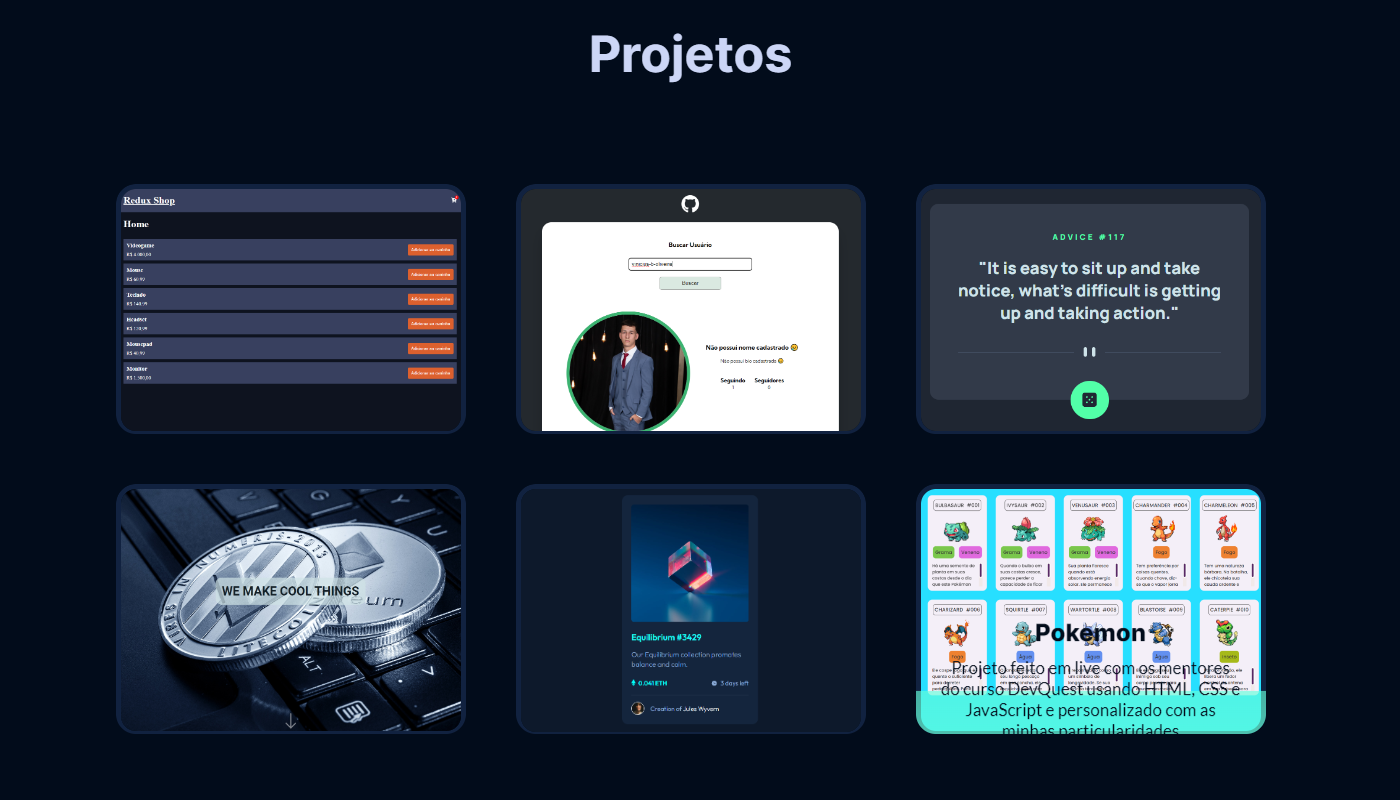
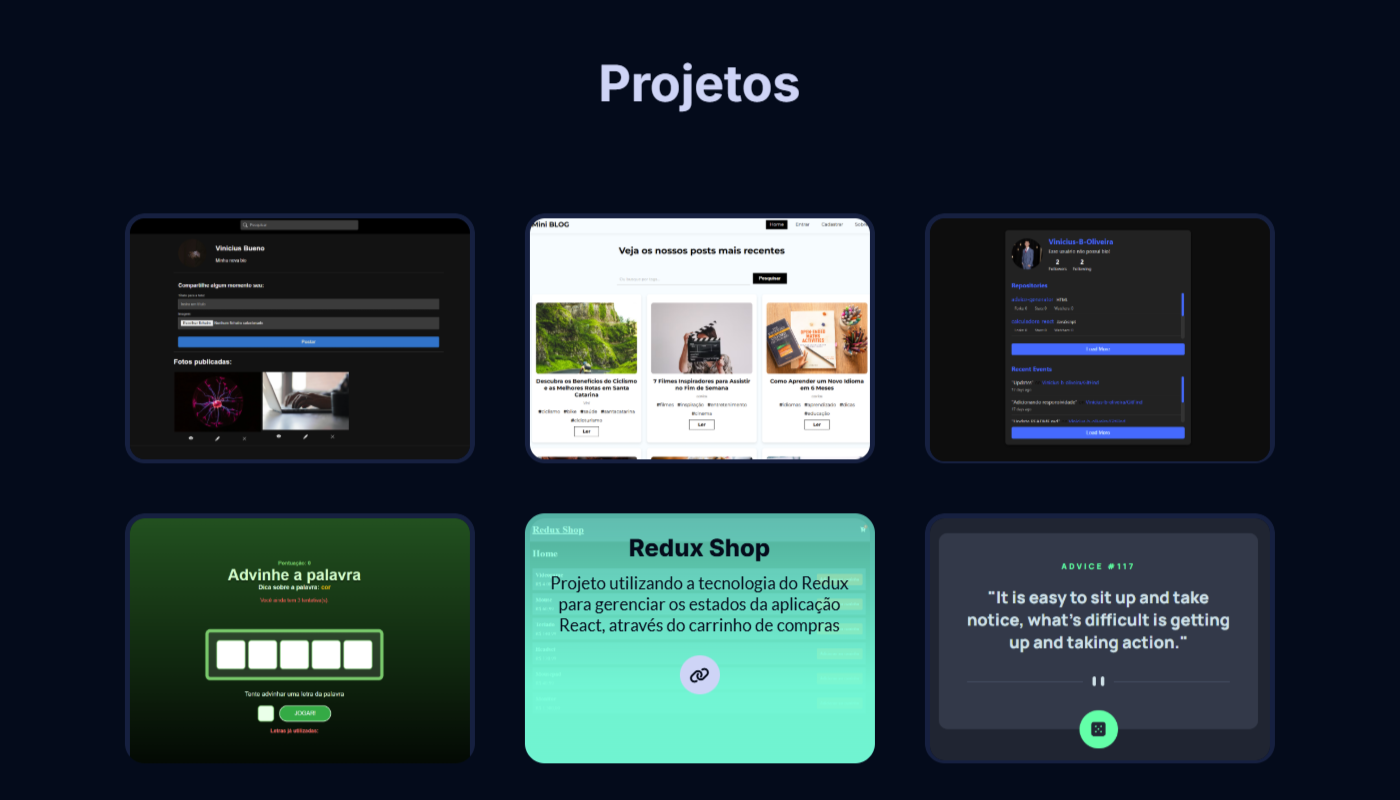
Atualização dos projetos

diff --git a/index.html b/index.html
@@ -199,6 +199,18 @@
             
             <ul class="container-projetos flex">
                 <li class="projeto">
+                    <img src="./src/img/projetos/reactgram.png" alt="Imagem do Projeto" class="projeto-img">
+        
+                    <div class="fundo-hover"></div>
+        
+                    <div class="informacoes-projeto flex">
+                        <h3 class="titulo-projeto">ReactGram</h3>
+                        <p class="descricao-projeto">É um projeto FullStack com foco em práticas modernas de desenvolvimento web que permite que usuários publiquem fotos, editem seus perfis, interajam com postagens e naveguem por conteúdos de outros usuários.</p>
+                        <a href="https://react-gram-rouge.vercel.app" class="btn-projeto" target="_blank"><i class="fa-solid fa-link"></i></a>
+                    </div>
+                </li> 
+
+                <li class="projeto">
                     <img src="./src/img/projetos/mini_blog.png" alt="Imagem do Projeto" class="projeto-img">
         
                     <div class="fundo-hover"></div>
@@ -255,19 +267,6 @@
                         <h3 class="titulo-projeto">Advice Generator</h3>
                         <p class="descricao-projeto">Solução de um desafio do frontend mentor utilizando uma Api geradora de conselhos</p>
                         <a href="https://vinicius-b-oliveira.github.io/advice-generator/" class="btn-projeto" target="_blank"><i class="fa-solid fa-link"></i></a>
-                    </div>
-                </li>
-
-
-                <li class="projeto">
-                    <img src="./src/img/projetos/pokemon.png" alt="Imagem do Projeto" class="projeto-img">
-
-                    <div class="fundo-hover"></div>
-
-                    <div class="informacoes-projeto flex">
-                        <h3 class="titulo-projeto">Pokemon</h3>
-                        <p class="descricao-projeto">Projeto feito em live com os mentores do curso DevQuest usando HTML, CSS e JavaScript e personalizado com as minhas particularidades</p>
-                        <a href="https://vinicius-b-oliveira.github.io/projeto-pokemon/" class="btn-projeto" target="_blank"><i class="fa-solid fa-link"></i></a>
                     </div>
                 </li>
             </ul>

diff --git a/README.md b/README.md
@@ -8,6 +8,10 @@
 
 Este portfólio foi criado para apresentar meus projetos pessoais e destacar minhas habilidades em desenvolvimento web. Utilizei somente HTML e CSS para construir este projeto, com o objetivo de demonstrar minha proficiência nessas tecnologias fundamentais.
 
+## 🌐 GitHub Pages (Deploy)
+
+O projeto está hospedado no GitHub Pages. Você pode acessá-lo [aqui](https://vinicius-b-oliveira.github.io/portfolio/).
+
 ## 🚧 Desafios Enfrentados 🚧
 
 🔥 Desenvolver um portfólio pessoal foi uma oportunidade incrível para aplicar minhas habilidades em programação. Enfrentei o desafio de criar uma interface atraente e responsiva, garantindo que meu portfólio seja acessível em diversos dispositivos.
@@ -24,11 +28,8 @@ Você pode visualizar algumas imagens do site !
 
 🔮 Estou sempre procurando maneiras de melhorar meu portfólio. No futuro, pretendo adicionar mais projetos interessantes e interativos, bem como reconstruir o mesmo utilizando ReactJs.
 
-## 🌐 GitHub Pages
 
-O projeto está hospedado no GitHub Pages. Você pode acessá-lo [aqui](https://vinicius-b-oliveira.github.io/portfolio/).
-
-## 🏃♂ Como Executar o Projeto 🏃♀
+## 🏃♂ Como Executar o Projeto Localmente 🏃♀
 
 Para executar este projeto localmente, siga estas etapas:
 
